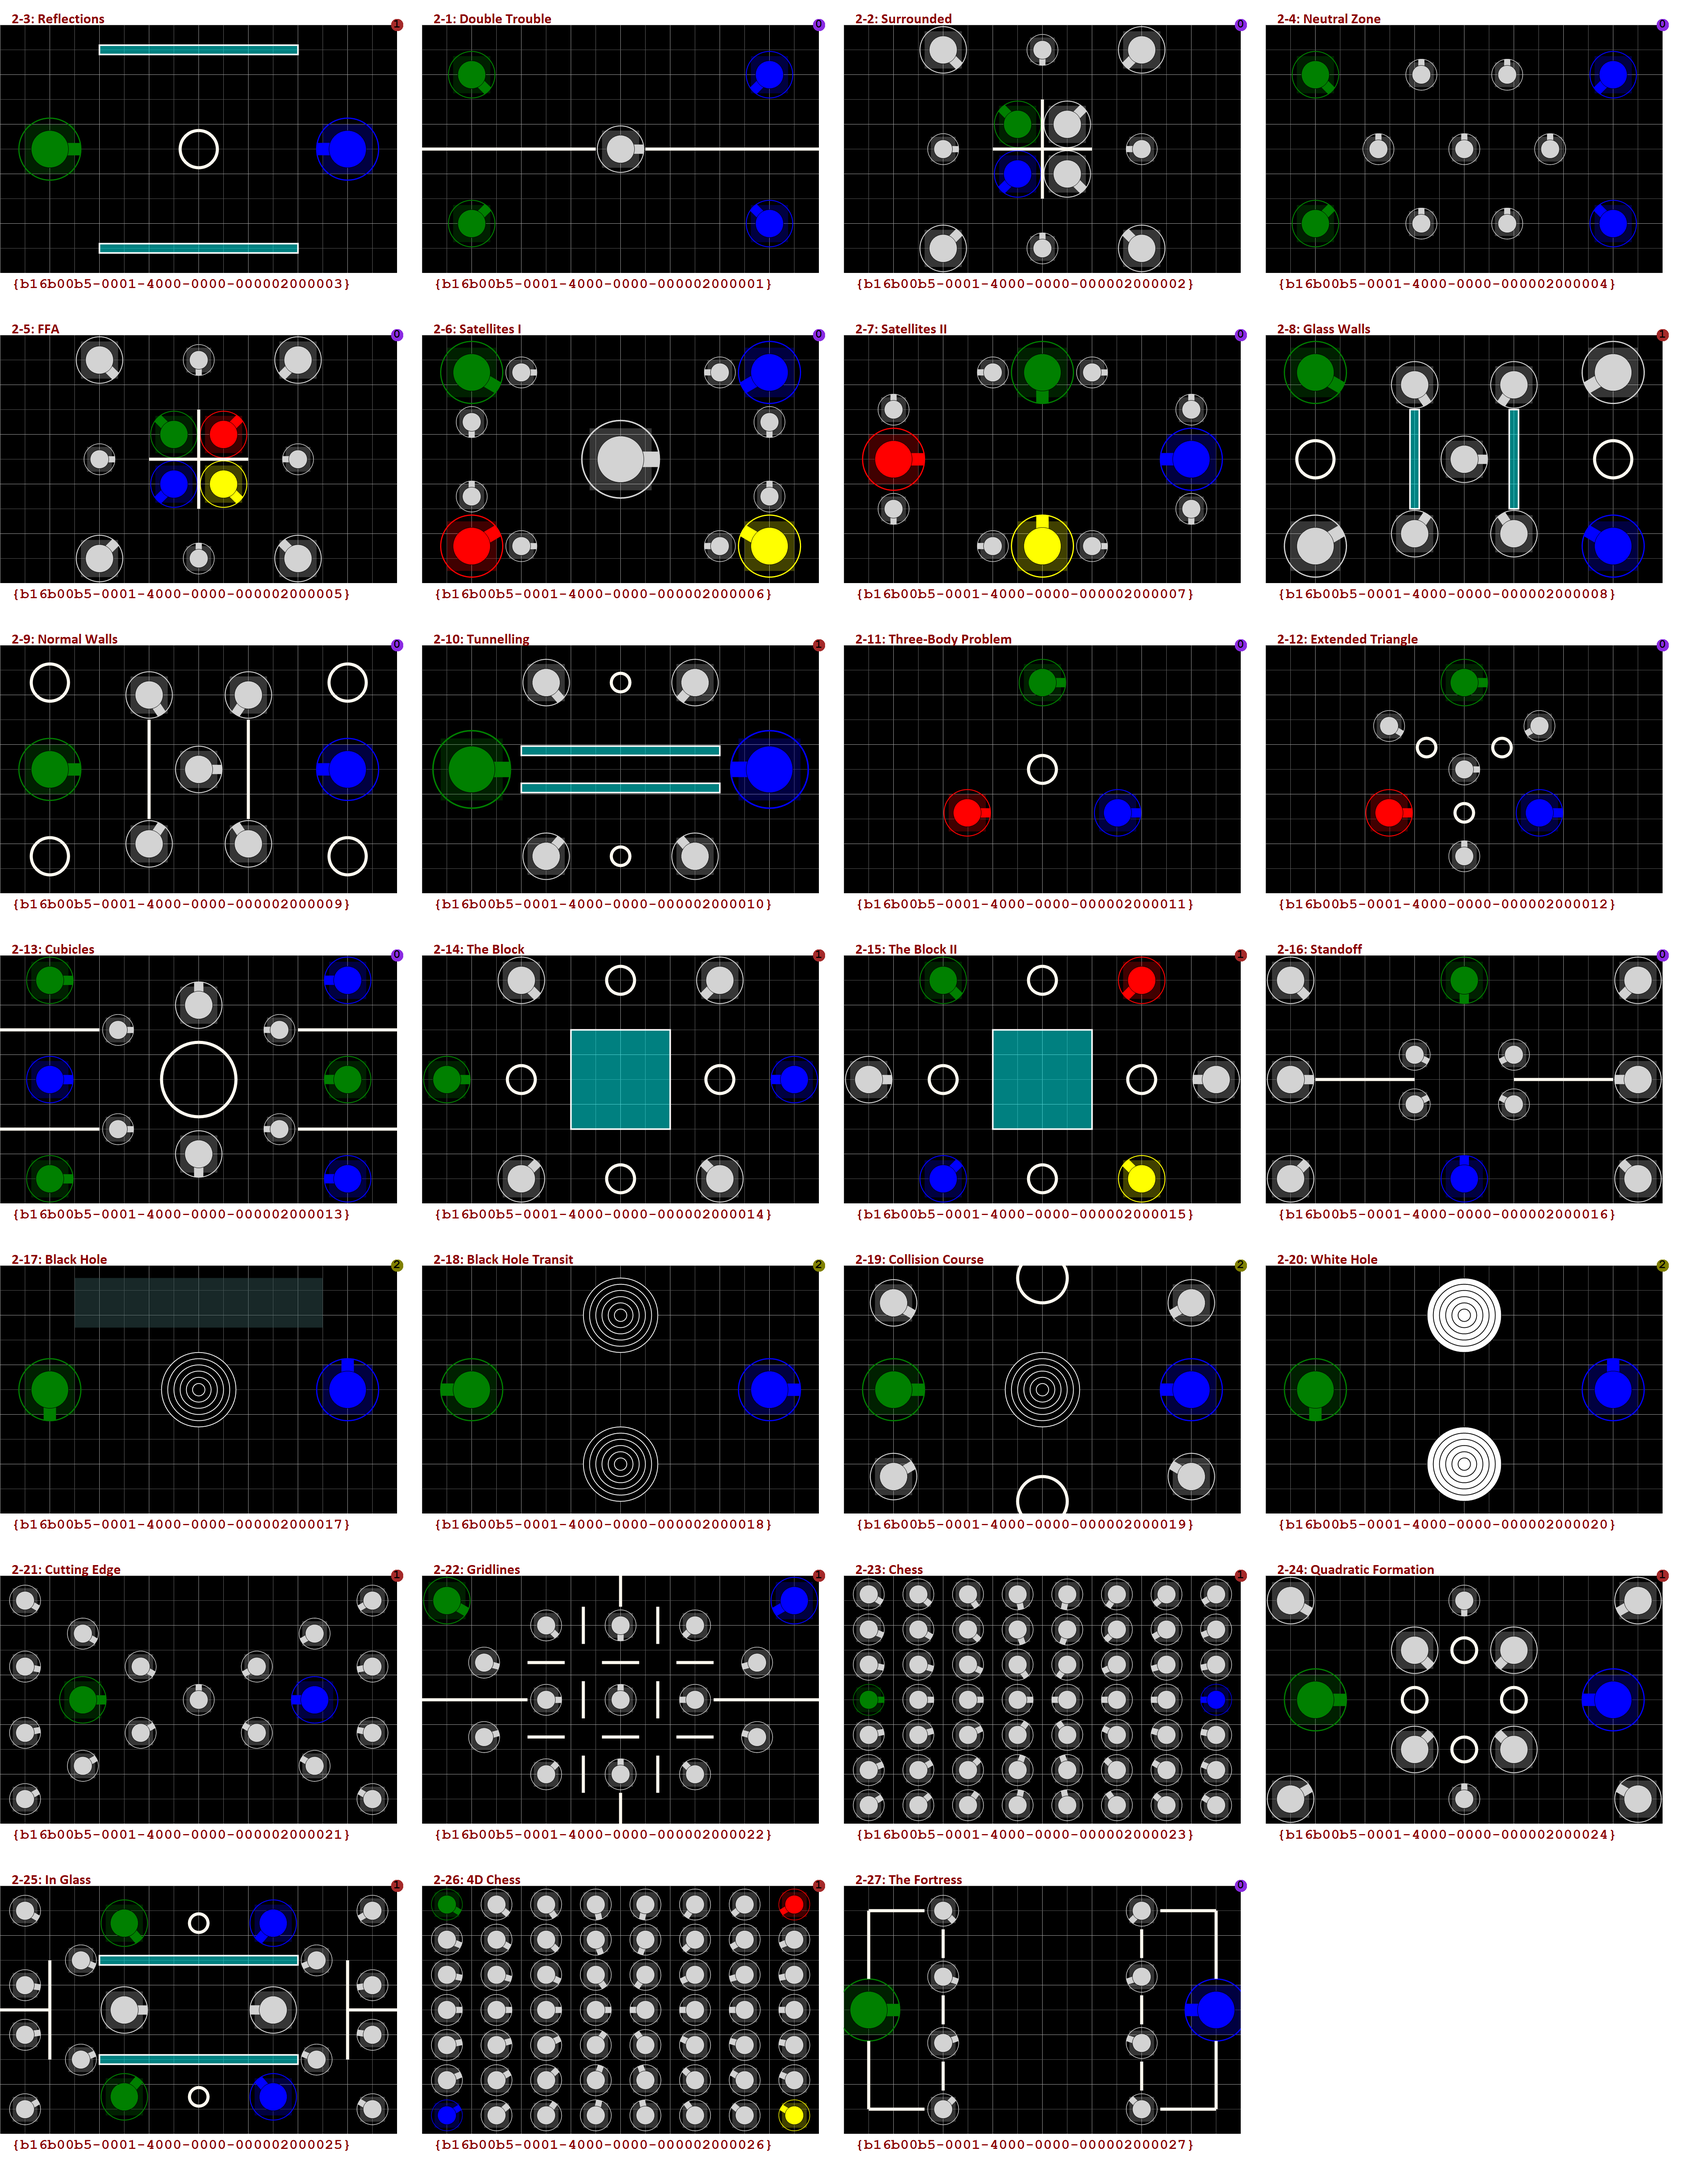
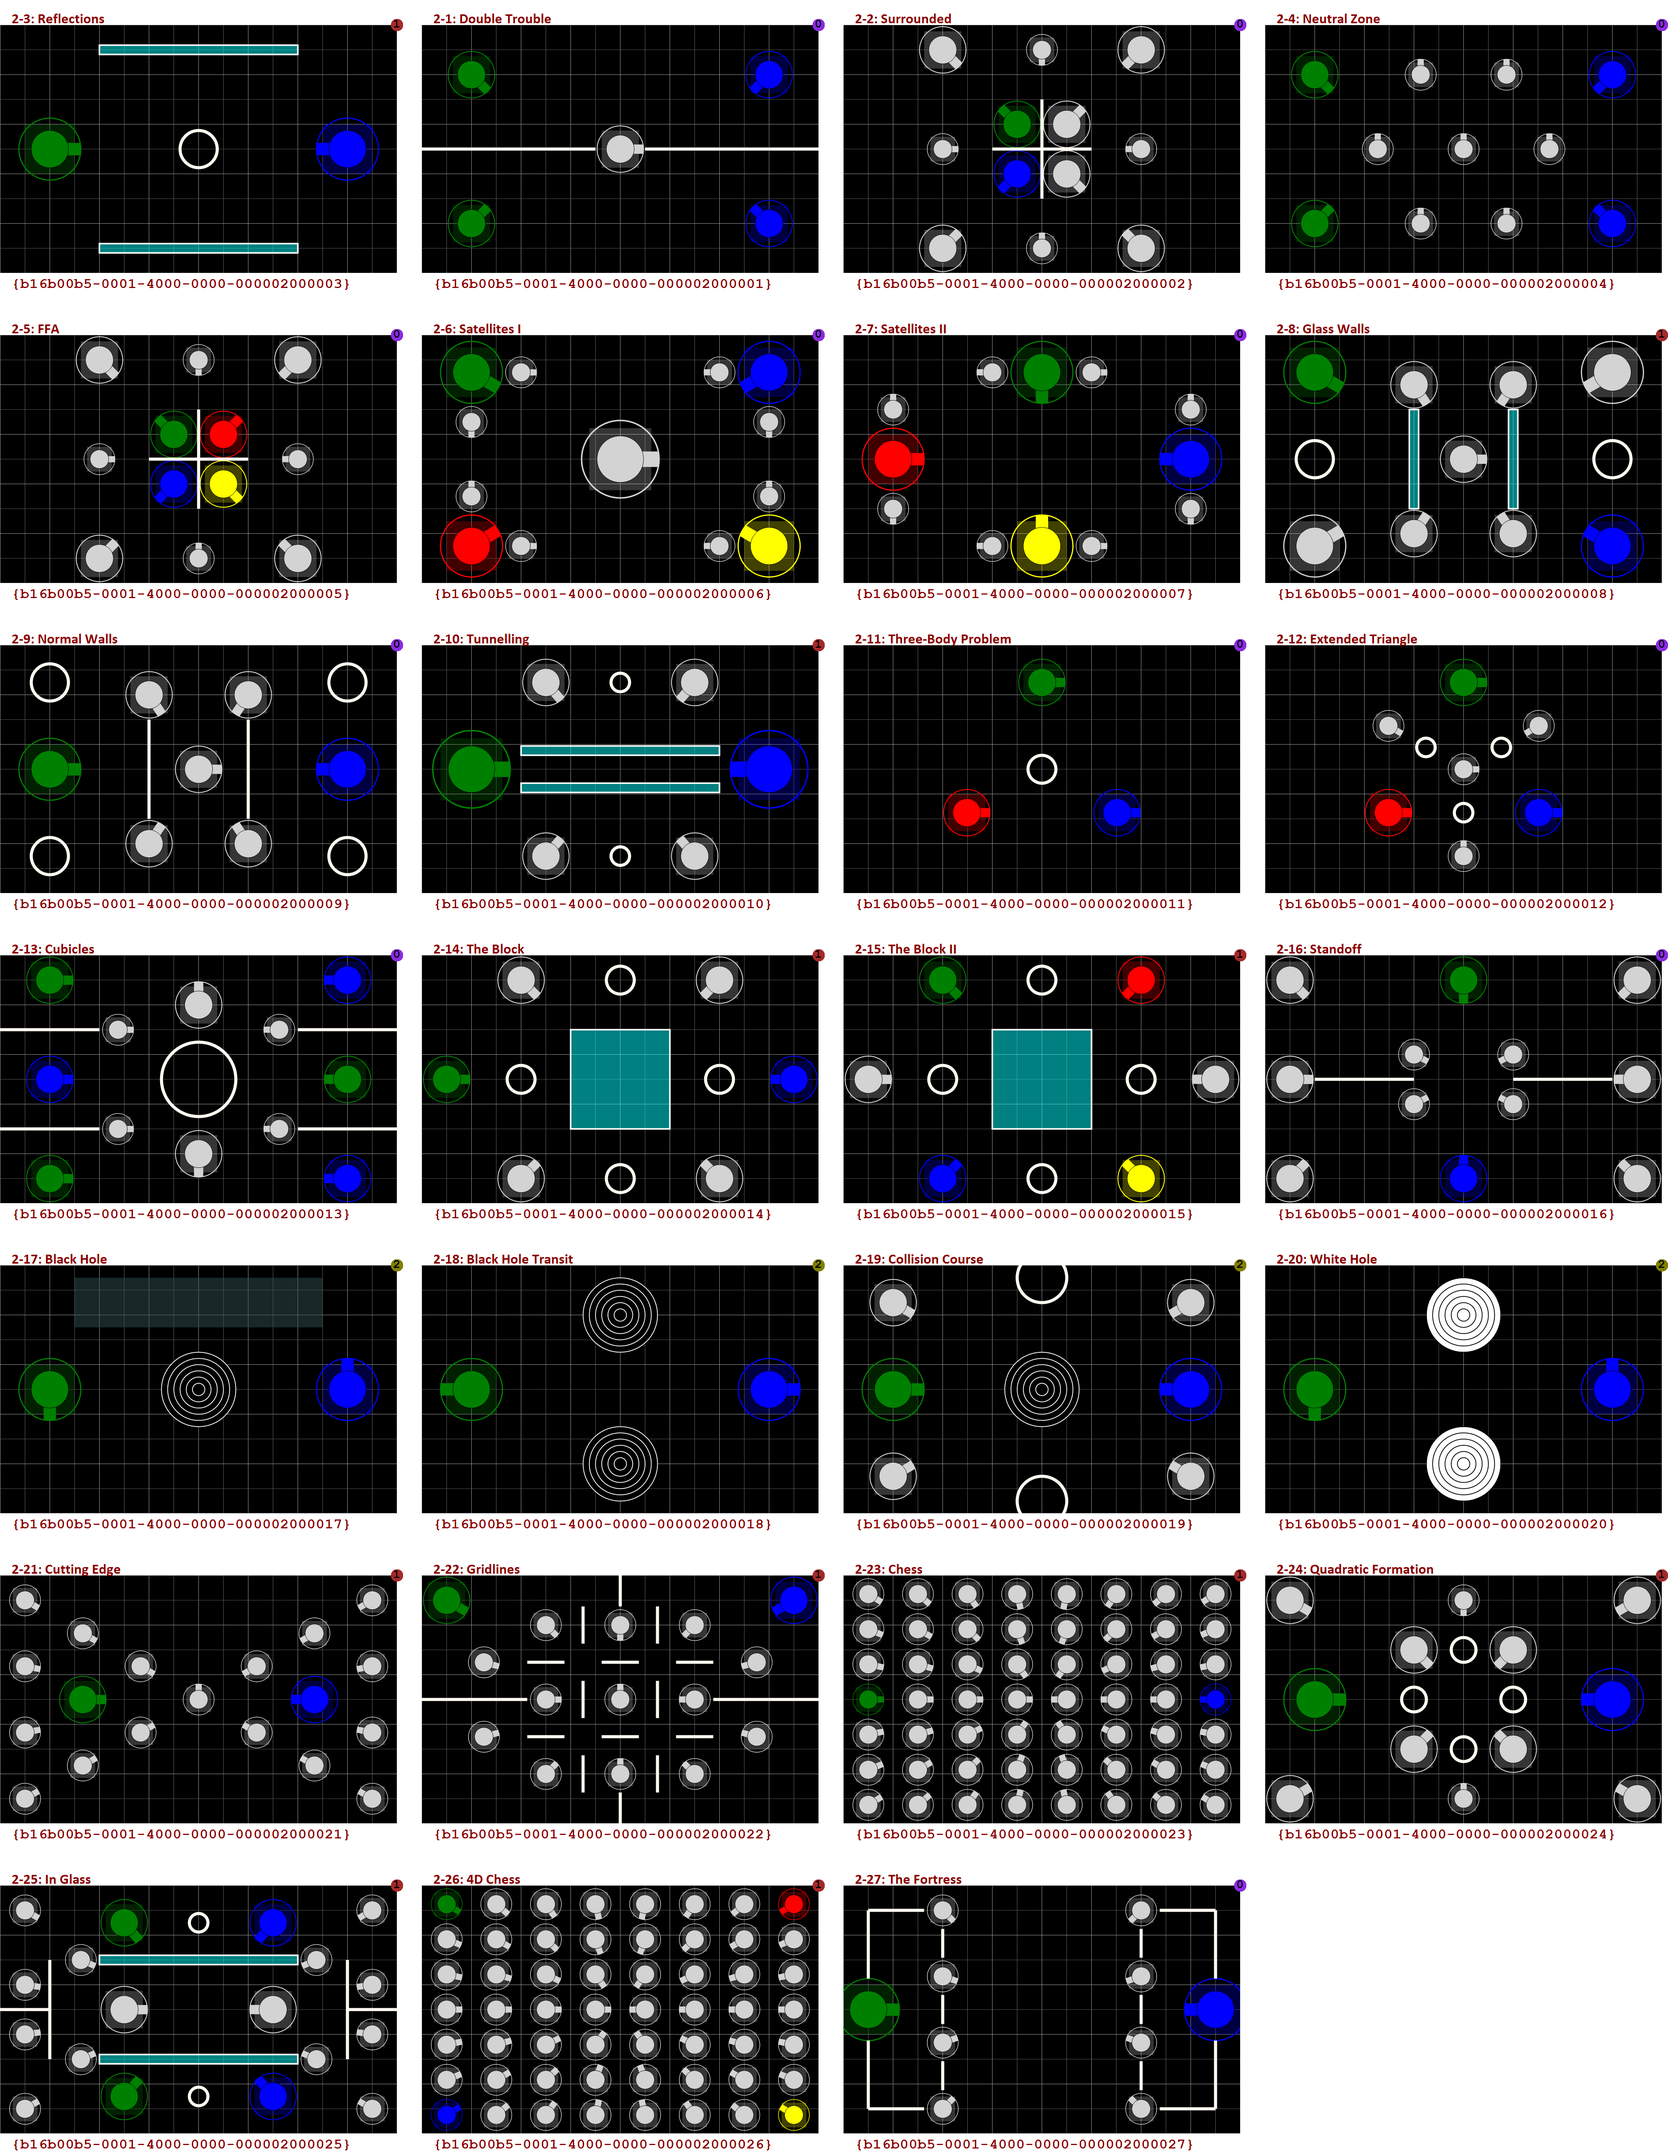
Fix DSLEditor overview image gen

diff --git a/Source/GridDominance.Common/Levelfileformat/Blueprint/LevelBlueprint.cs b/Source/GridDominance.Common/Levelfileformat/Blueprint/LevelBlueprint.cs
@@ -255,52 +255,52 @@ namespace GridDominance.Levelfileformat.Blueprint
 
 			foreach (var c in AllCannons)
 			{
-				if (c.Diameter <= 0) throw new Exception("Cannon with diameter <= 0");
+				if (c.Diameter <= 0.001) throw new Exception("Cannon with diameter <= 0");
 			}
 
 			foreach (var w in BlueprintVoidWalls)
 			{
-				if (w.Length <= 0) throw new Exception("Voidwall with length <= 0");
+				if (w.Length <= 0.001) throw new Exception("Voidwall with length <= 0");
 			}
 
 			foreach (var c in BlueprintVoidCircles)
 			{
-				if (c.Diameter <= 0) throw new Exception("Voidcircle with diameter <= 0");
+				if (c.Diameter <= 0.001) throw new Exception("Voidcircle with diameter <= 0");
 			}
 
 			foreach (var b in BlueprintGlassBlocks)
 			{
-				if (b.Width <= 0) throw new Exception("Glassblock with width <= 0");
-				if (b.Height <= 0) throw new Exception("Glassblock with height <= 0");
+				if (b.Width <= 0.001) throw new Exception("Glassblock with width <= 0");
+				if (b.Height <= 0.001) throw new Exception("Glassblock with height <= 0");
 			}
 
 			foreach (var b in BlueprintBackgroundText)
 			{
-				if (b.Width <= 0) throw new Exception("Text with width <= 0");
-				if (b.Height <= 0) throw new Exception("Text with height <= 0");
+				if (b.Width <= 0.001) throw new Exception("Text with width <= 0");
+				if (b.Height <= 0.001) throw new Exception("Text with height <= 0");
 			}
 
 			foreach (var h in BlueprintBlackHoles)
 			{
-				if (h.Diameter <= 0) throw new Exception("Blackhole with diameter <= 0");
+				if (h.Diameter <= 0.001) throw new Exception("Blackhole with diameter <= 0");
 			}
 
 			foreach (var p1 in BlueprintPortals)
 			{
 				//var match = BlueprintPortals.Where(p2 => p2.Group == p1.Group).Where(p2 => p2.Side == !p1.Side).Any();
 				//if (!match) throw new Exception($"Portalgroup {p1.Group} has no matching in/out");
-				if (p1.Length <= 0) throw new Exception("Portal with length <= 0");
+				if (p1.Length <= 0.001) throw new Exception("Portal with length <= 0");
 			}
 
 			foreach (var c in BlueprintMirrorCircles)
 			{
-				if (c.Diameter <= 0) throw new Exception("Mirrorcircle with diameter <= 0");
+				if (c.Diameter <= 0.001) throw new Exception("Mirrorcircle with diameter <= 0");
 			}
 
 			foreach (var b in BlueprintMirrorBlocks)
 			{
-				if (b.Width <= 0) throw new Exception("Mirrorblock with width <= 0");
-				if (b.Height <= 0) throw new Exception("Mirrorblock with height <= 0");
+				if (b.Width <= 0.001) throw new Exception("Mirrorblock with width <= 0");
+				if (b.Height <= 0.001) throw new Exception("Mirrorblock with height <= 0");
 			}
 		}
 

diff --git a/Source/DSLEditor/MainWindowViewModel.Level.cs b/Source/DSLEditor/MainWindowViewModel.Level.cs
@@ -245,24 +245,79 @@ namespace GridDominance.DSLEditor
 		{
 			var imgs = levels.Select(p => CreateOverviewSafe(p.Item1, p.Item2)).ToList();
 
-			var sw = imgs[0].Width;
-			var sh = imgs[0].Height;
+			var iw = 0;
+			var ih = 0;
 
-			var rc = (imgs.Count + 3) / 4;
+			int sx = 0;
+			int cy = 0;
 
-			var w = sw * 4 + 48 * 5;
-			var h = rc * sh + rc * 48;
+			int x = 0;
+			int y = 0;
+			for (int i = 0; i < imgs.Count; i++)
+			{
+				if (i % 4 == 0) cy++;
 
-			var bmp = new Bitmap(w, h);
+				if (i>0 && i%4==0)
+				{
+					sx += x;
+
+					x = 0;
+					y += IMax(i > 0 ? imgs[i - 1].Height : 0, i > 1 ? imgs[i - 2].Height : 0, i > 2 ? imgs[i - 3].Height : 0, i > 3 ? imgs[i - 4].Height : 0);
+					y += 48;
+				}
+
+				//g.DrawImageUnscaled(imgs[i], x, y);
+
+				x += imgs[i].Width;
+
+				iw = Math.Max(iw, x);
+				ih = Math.Max(ih, y+ imgs[i].Height);
+
+				x += 48;
+			}
+			sx += x;
+			var avg = sx / cy;
+
+			x = 0;
+			y = 0;
+			for (int i = 0; i < imgs.Count; i++)
+			{
+				if (i > 0 && i % 4 == 0 || x + 64 > avg)
+				{
+					x = 0;
+					y += IMax(i>0 ? imgs[i - 1].Height : 0, i > 1 ? imgs[i - 2].Height : 0, i > 2 ? imgs[i - 3].Height : 0, i > 3 ? imgs[i - 4].Height : 0);
+					y += 48;
+				}
+
+				//g.DrawImageUnscaled(imgs[i], x, y);
+
+				x += imgs[i].Width;
+
+				iw = Math.Max(iw, x);
+				ih = Math.Max(ih, y + imgs[i].Height);
+
+				x += 48;
+			}
+
+			var bmp = new Bitmap(iw, ih);
+			x = 0;
+			y = 0;
 			using (Graphics g = Graphics.FromImage(bmp))
 			{
 				g.Clear(Color.White);
 				for (int i = 0; i < imgs.Count; i++)
 				{
-					var x = (i % 4) * (48 + sw);
-					var y = (i / 4) * (48 + sh);
+					if (i > 0 && i % 4 == 0 || x+64 > avg)
+					{
+						x = 0;
+						y += IMax(i > 0 ? imgs[i - 1].Height : 0, i > 1 ? imgs[i - 2].Height : 0, i > 2 ? imgs[i - 3].Height : 0, i > 3 ? imgs[i - 4].Height : 0);
+						y += 48;
+					}
 
 					g.DrawImageUnscaled(imgs[i], x, y);
+
+					x += imgs[i].Width;
+					x += 48;
 				}
 			}
 
@@ -274,6 +329,8 @@ namespace GridDominance.DSLEditor
 
 			bmp.Save(fileOut);
 		}
+
+		private int IMax(int a, int b, int c, int d) => Math.Max(Math.Max(a, b), Math.Max(c, d));
 
 		public string GenerateASCIIMap(LevelBlueprint l)
 		{
